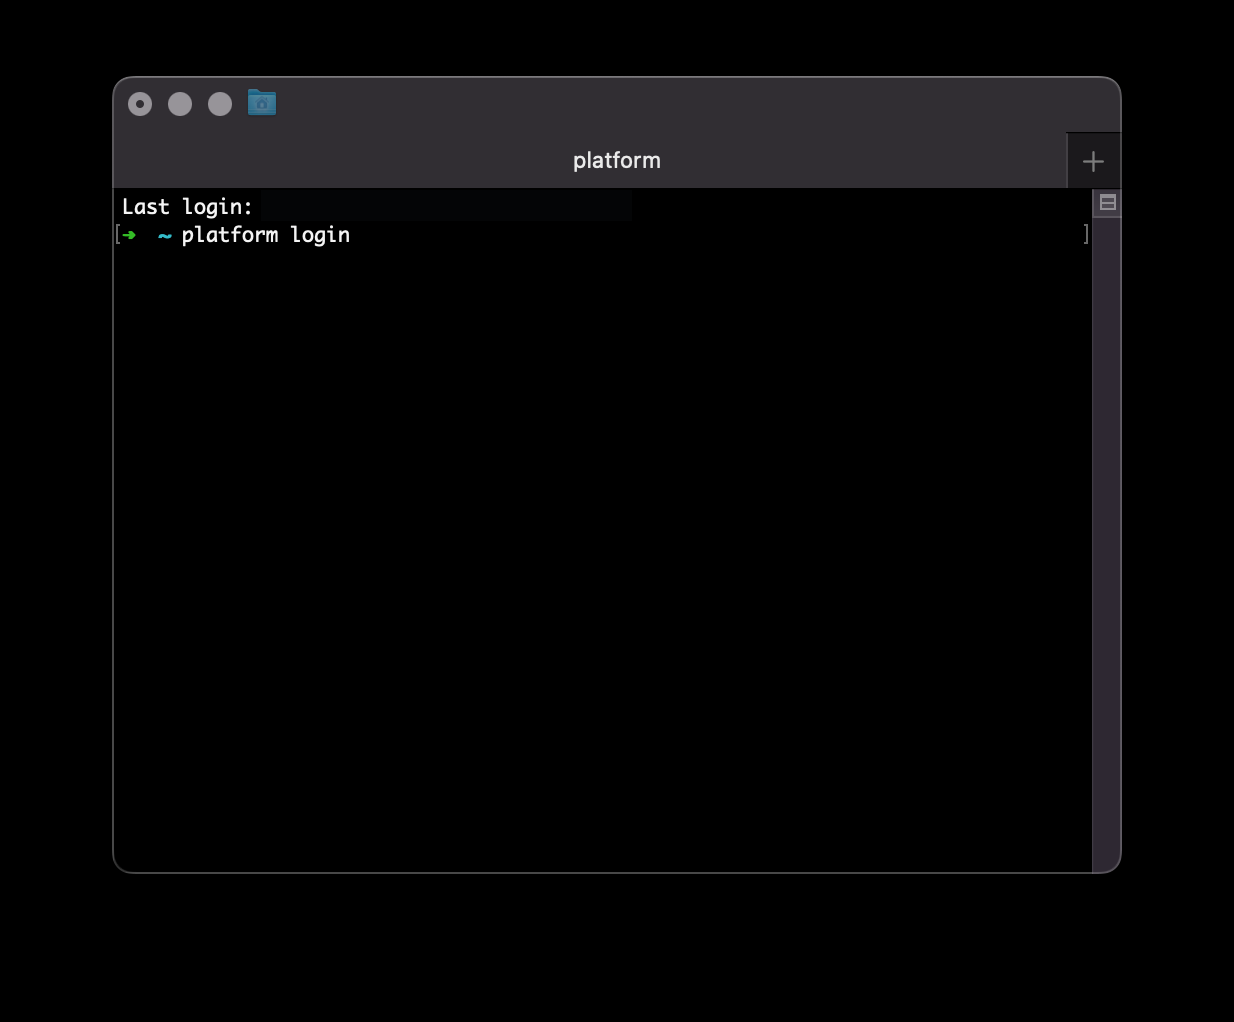
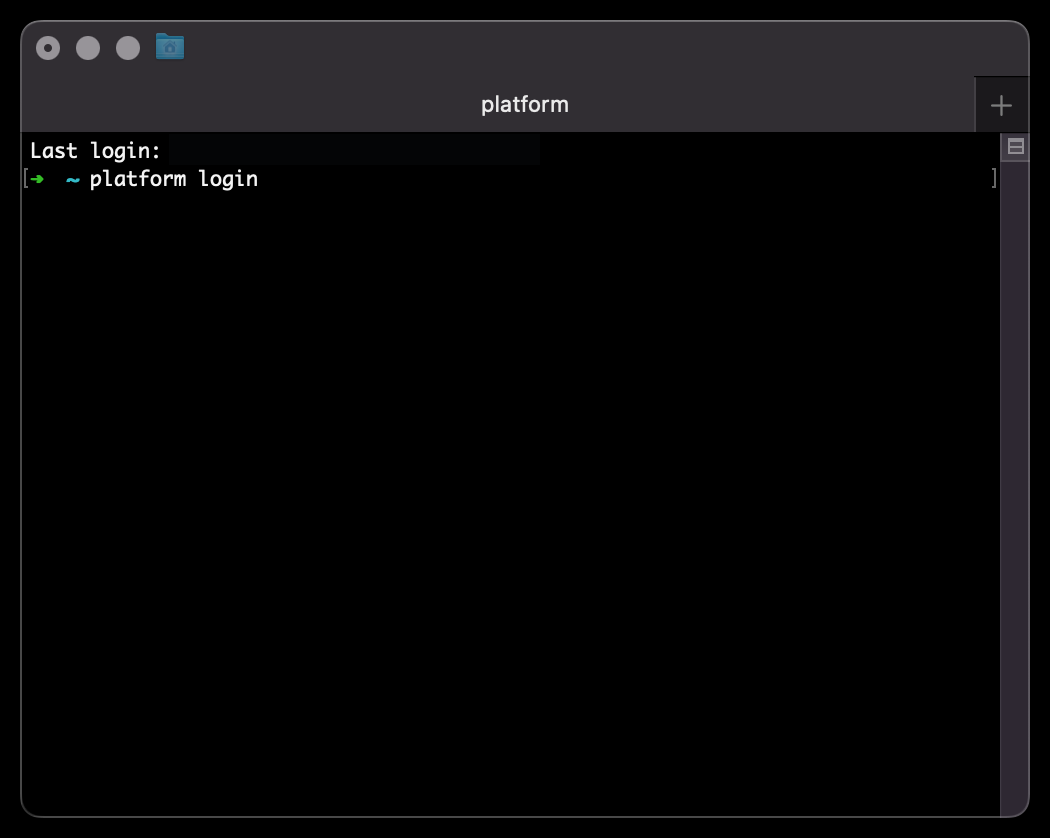
`README`

Changed region(s): [[0.0, 0.0, 1.0, 0.9928]]

diff --git a/docs/logging-in-to-platformsh-and-opening-a-tunnel.md b/docs/logging-in-to-platformsh-and-opening-a-tunnel.md
@@ -8,17 +8,17 @@ You need
 
 In a terminal, login to Platform.sh. This will open a browser window for you to enter your credentials
 
-![Login](images/1-platform-login.png)
+<img alt="Login" src="images/1-platform-login.png" width="525px" />
 
 ## 2 - Open an tunnel
 
 Open a tunnel to the User Management System
 
-![Select the User Management System](images/2-platform-tunnel-open.png)
+<img alt="Select the User Management System" src="images/2-platform-tunnel-open.png" width="525px" />
 
 Enter an environment ID (in this case `master`) then enter `y` to open the tunnel
 
-![Enter `master` then `y`](images/3-master.png)
+<img alt="Enter `master` then `y`" src="images/3-master.png" width="525px" />
 
 Note the credentials after `mysql://` - The username is `admin` and the password is (in this image) _redacted_. You should copy the password to your device's clipboard
 
